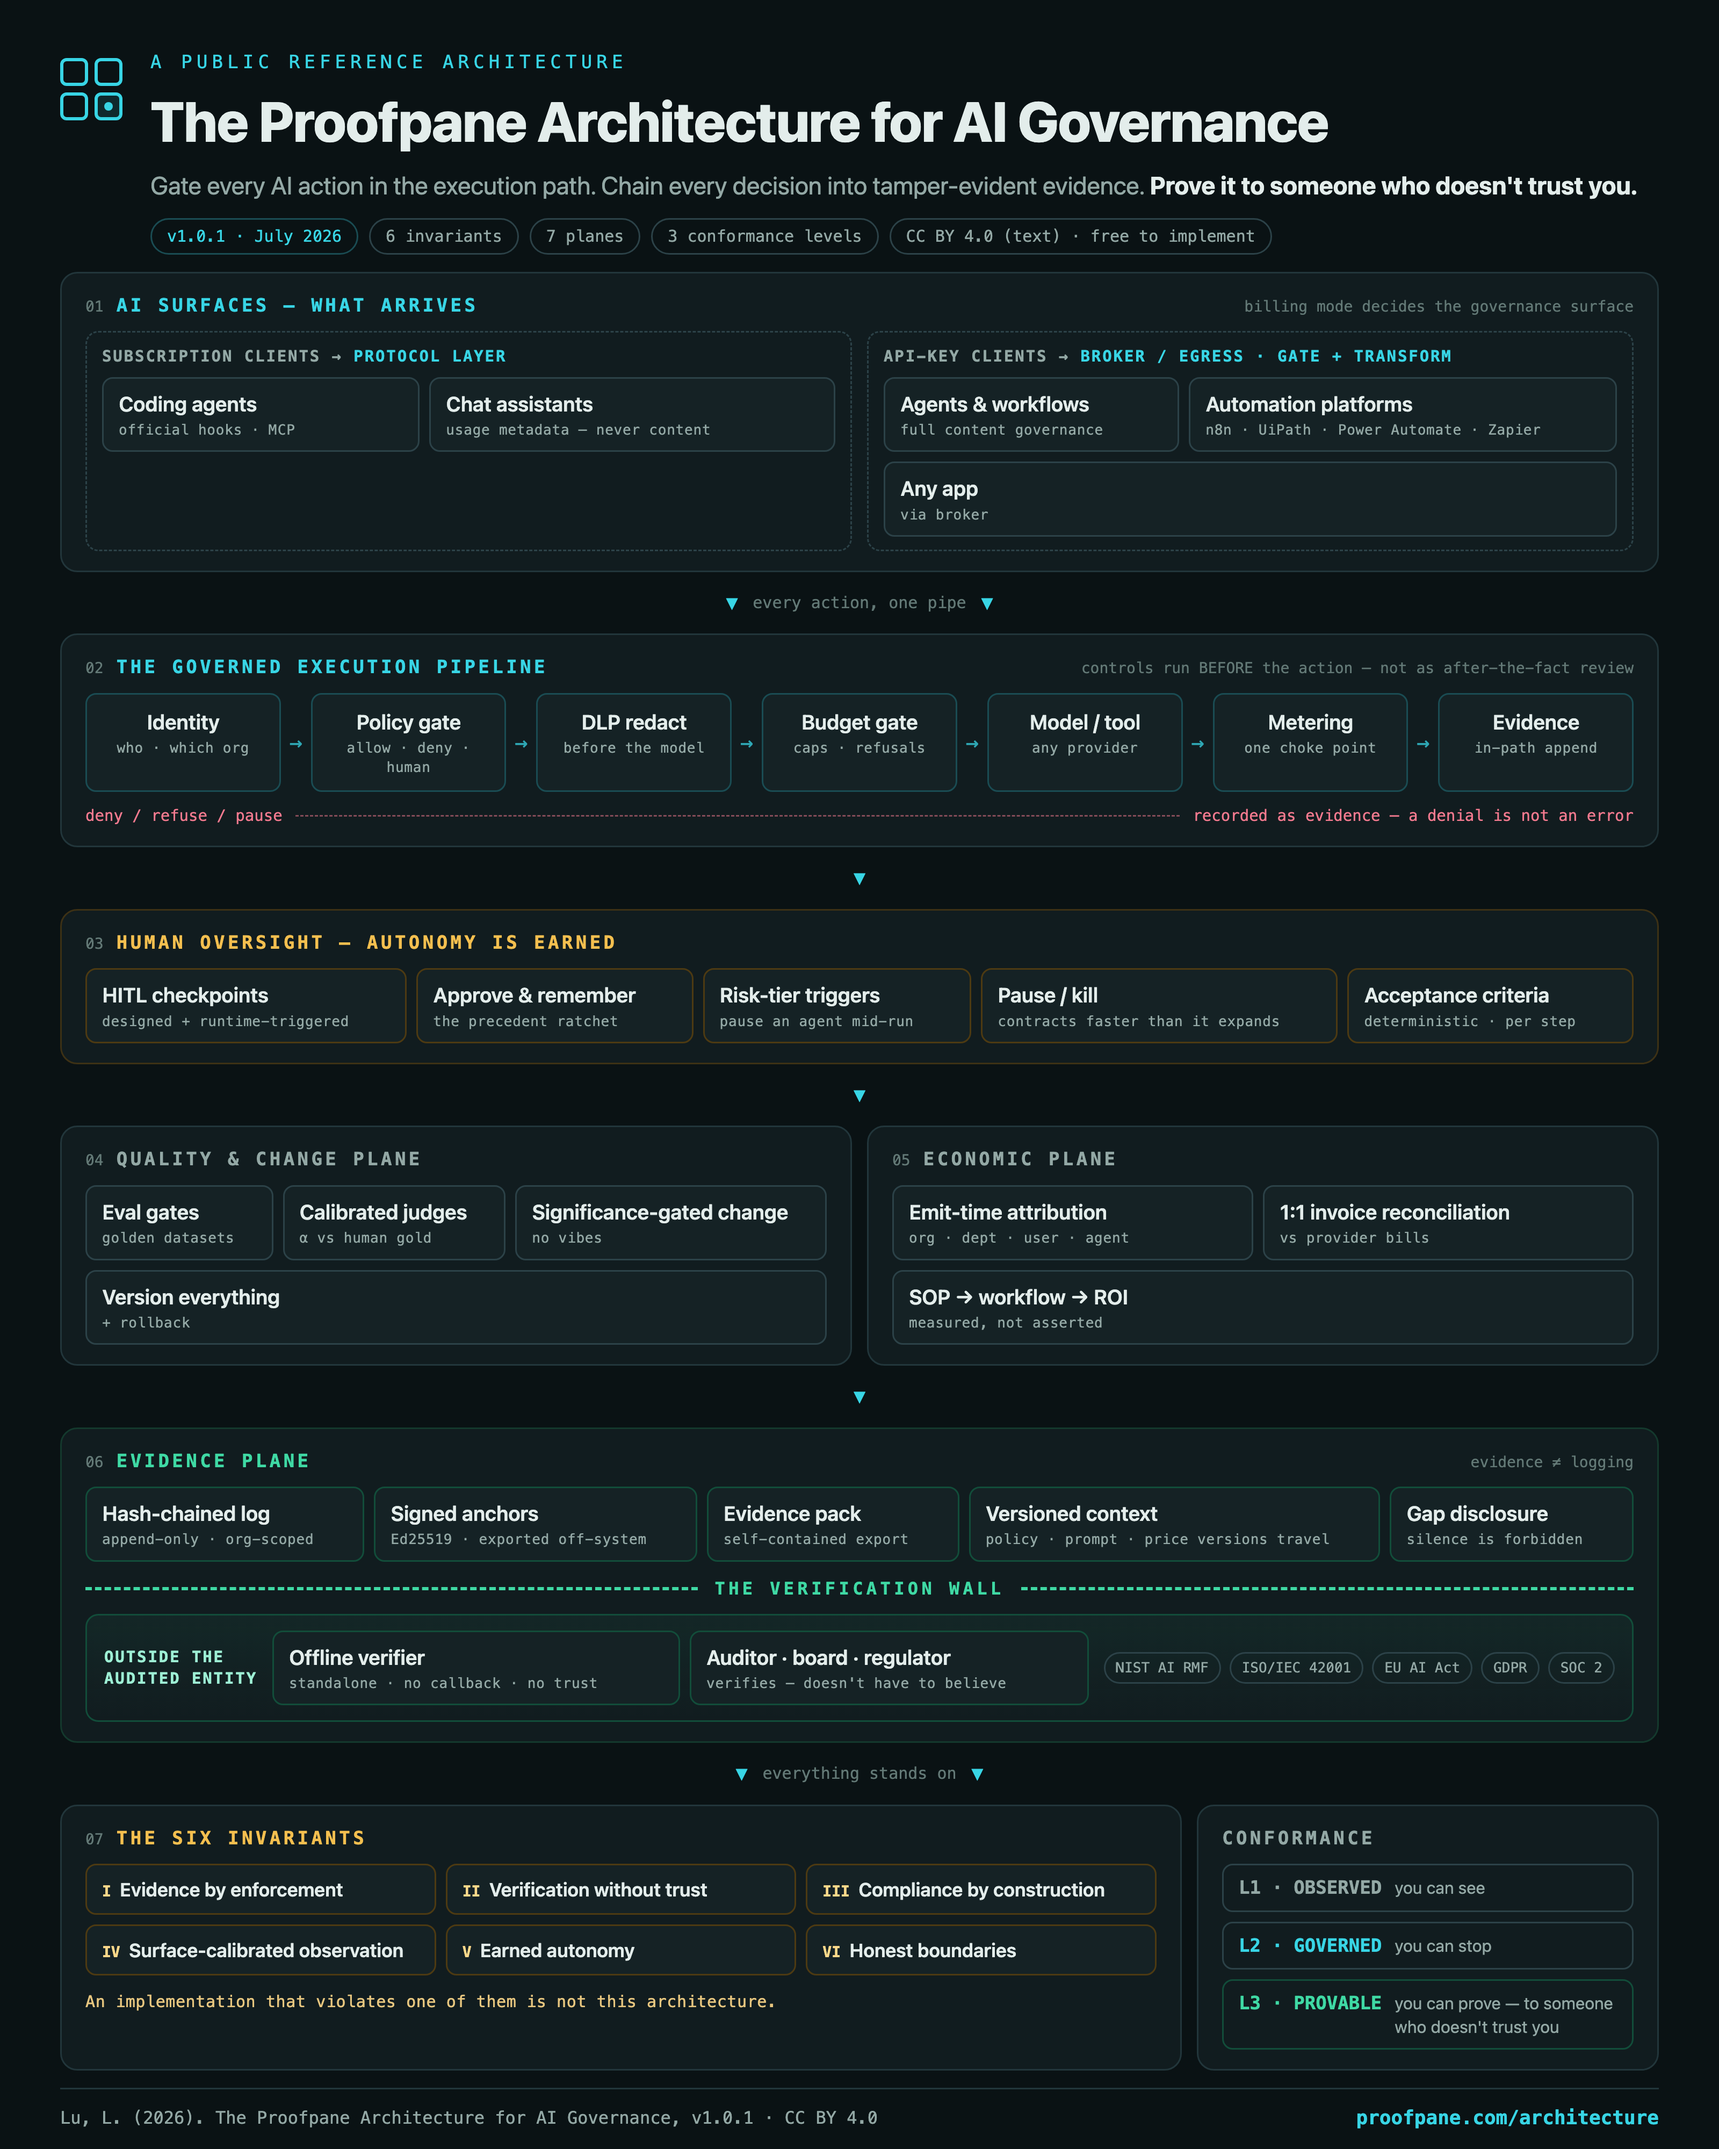
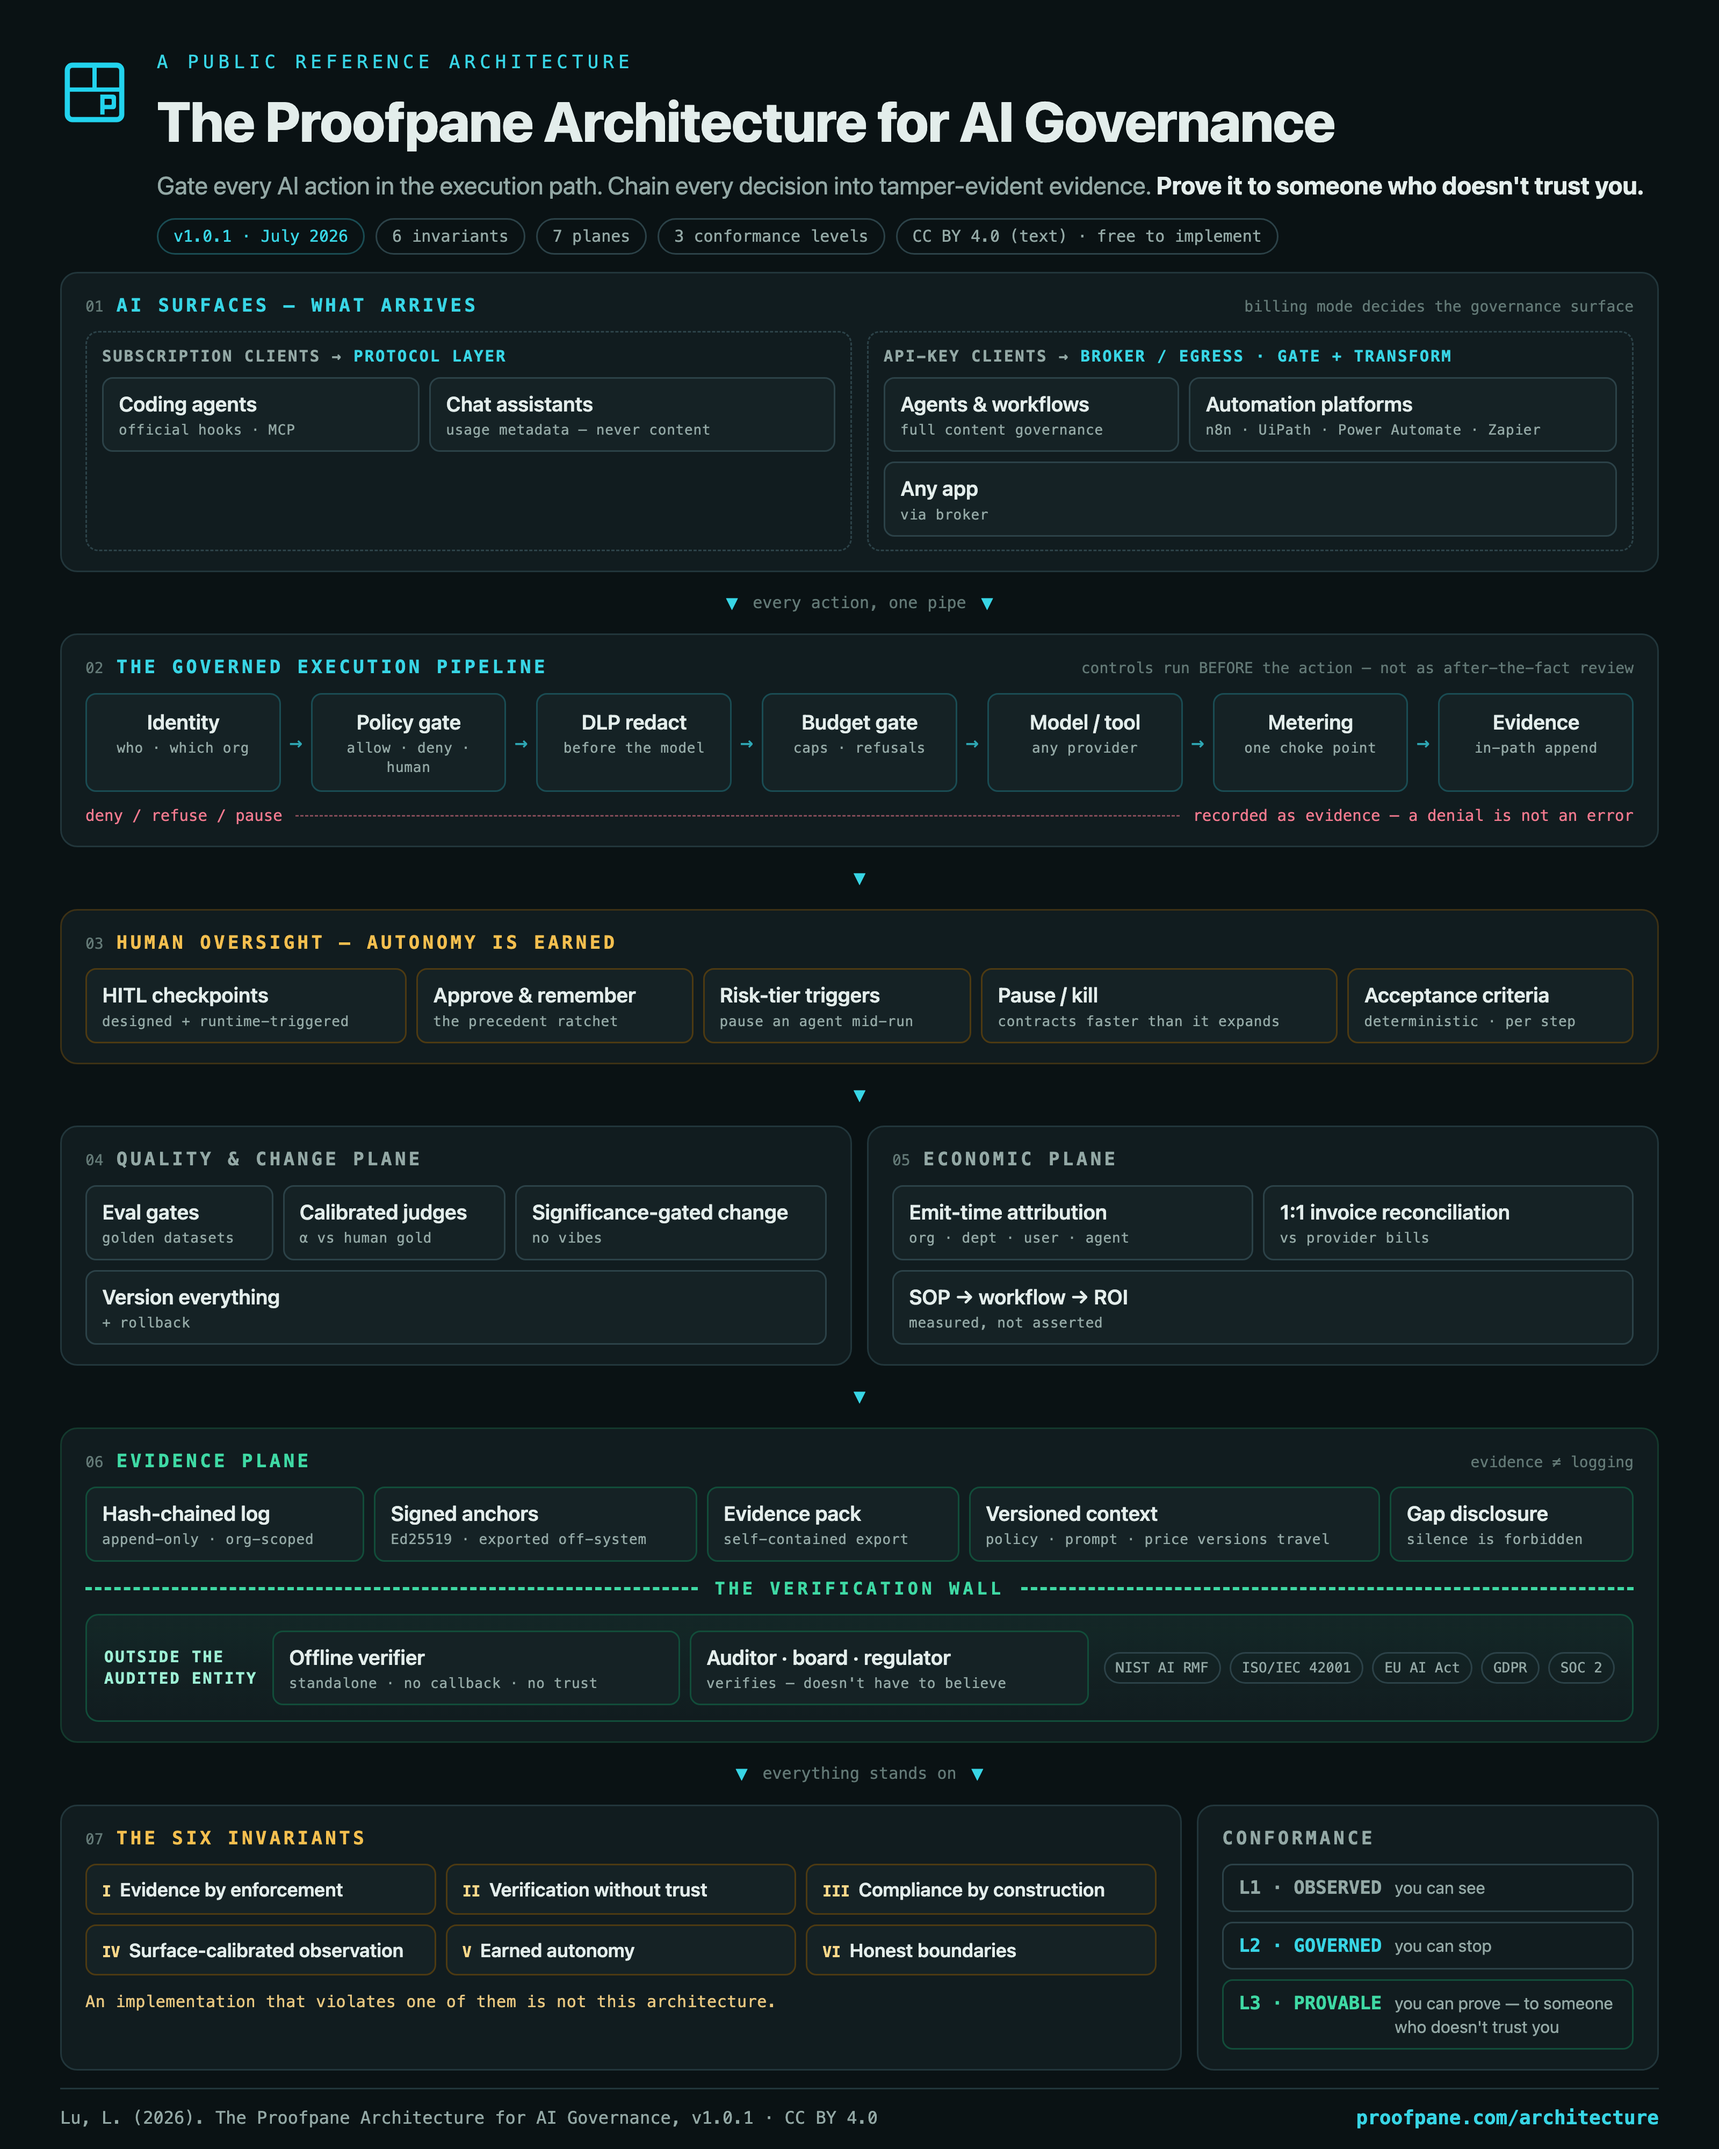
README: state the claim — runtime governance + tamper-evident evidence chain; real brand glyph on the diagram

Changed region(s): [[0.0312, 0.0, 0.9375, 0.125]]

diff --git a/README.md b/README.md
@@ -12,6 +12,18 @@ auditor verifies **offline** — no vendor account, no trust in us required.
 
 ![The Proofpane Architecture for AI Governance — every AI action passes a policy gate in the execution path; every decision lands on a hash-chained audit log; evidence exports as a signed pack verified outside the operator and the vendor](./architecture.png)
 
+**Our claim: governance must happen at runtime, and the record it leaves must be
+tamper-evident.** A policy that is checked after the fact governs nothing — by
+the time a review reads the log, the secret has left, the payment has cleared,
+the decision has shipped. So the gate sits **in the execution path**: the AI
+action does not complete until policy has allowed it, redacted it, or paused it
+for a human. And a record the operator can quietly edit proves nothing — so
+every decision is appended to a **SHA-256 hash-chained, append-only log**
+(DB-level immutability trigger, Ed25519 chain-head anchoring) whose export any
+auditor can verify **offline, against a published rubric, without trusting the
+operator or us**. Runtime enforcement produces the evidence; the evidence does
+not depend on anyone's word — including ours.
+
 The architecture is a **public, versioned reference** — not a private rubric:
 
 - **Read it:** [proofpane.com/architecture](https://proofpane.com/architecture/) — interactive map + full Markdown spec
